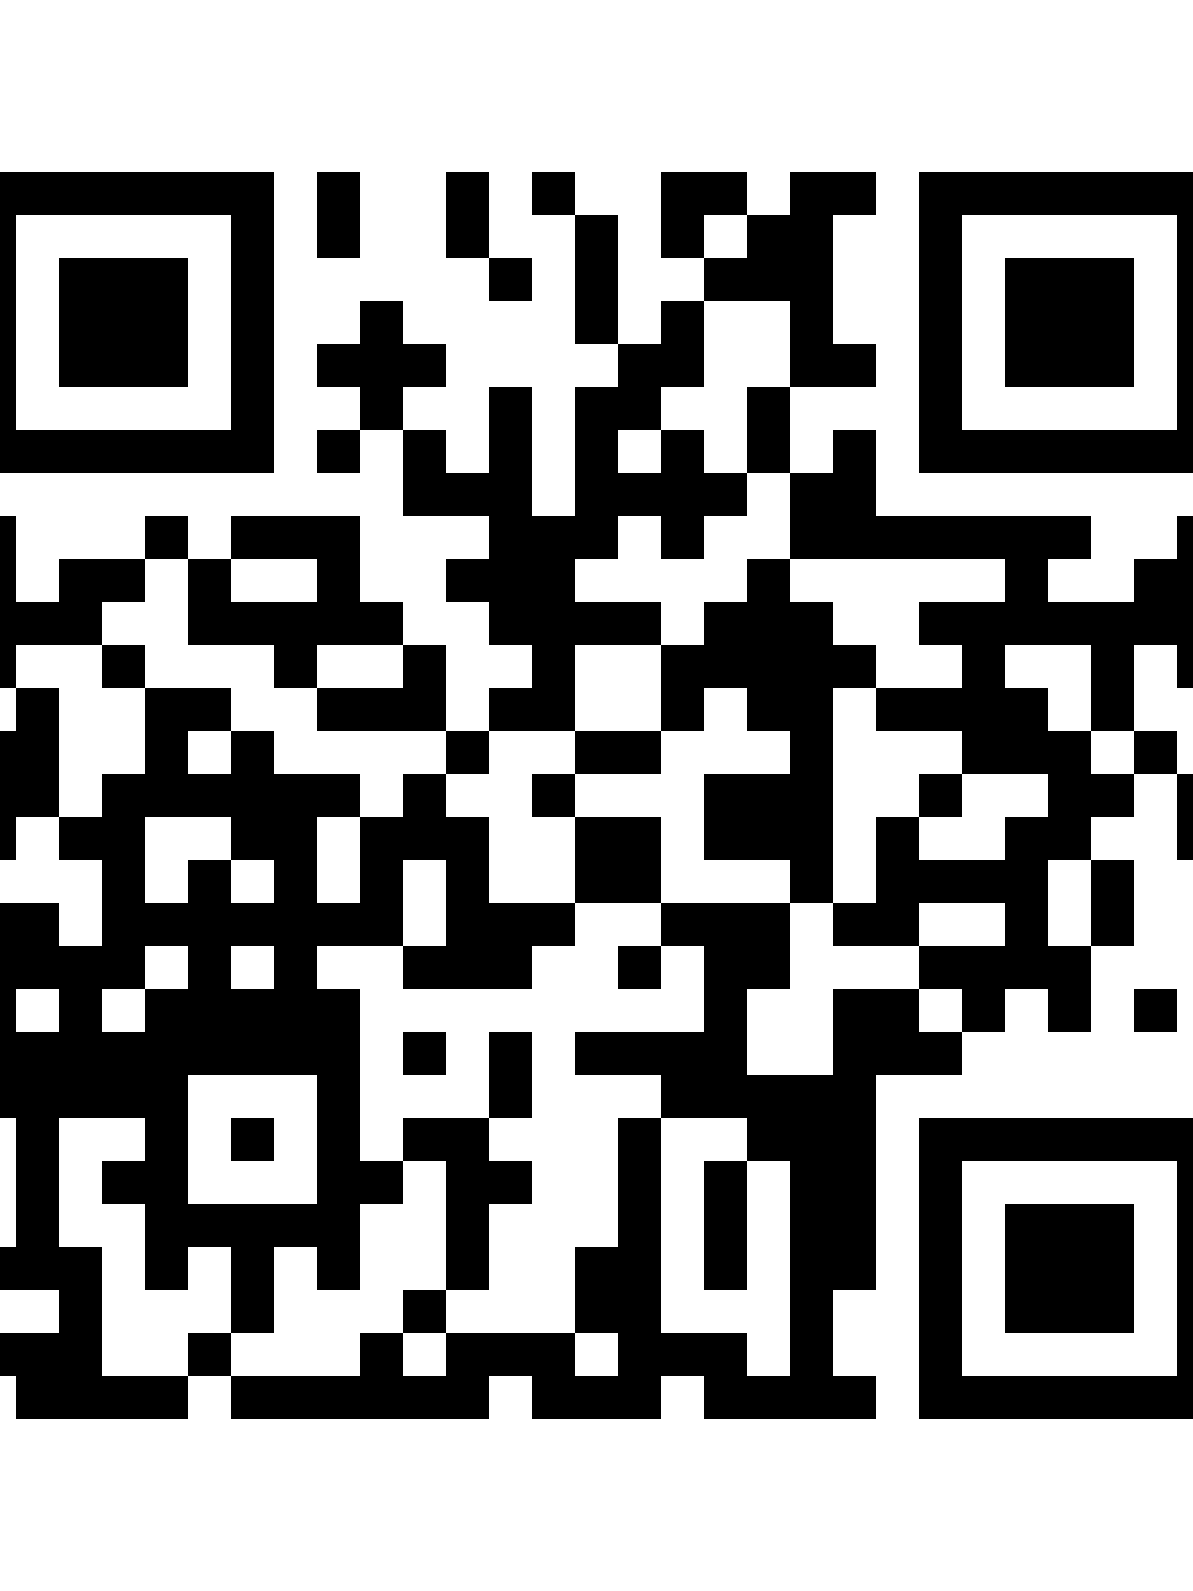
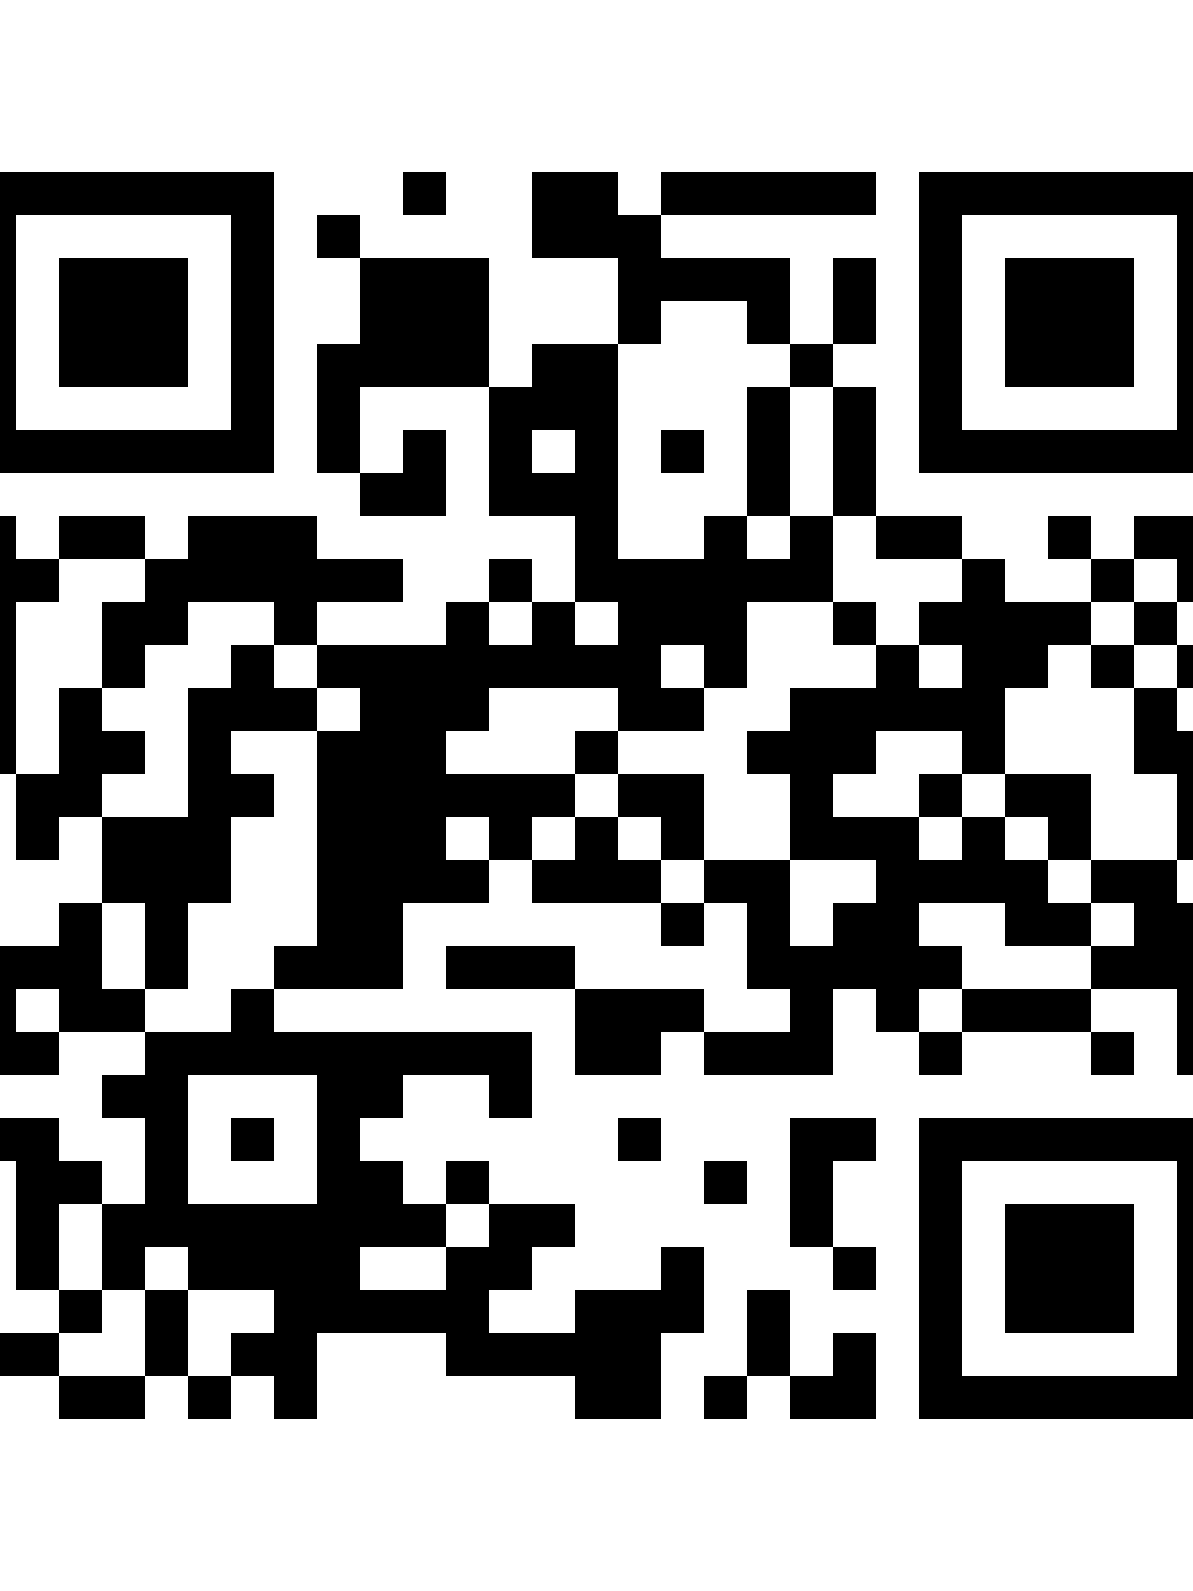
Move to experiencia.nomadhub.ar: new QR and AR target, Vercel ignore list
For this URL the printed QR and the landing page's QR are identical, so one
target replaces the two.

Changed region(s): [[0.0, 0.0924, 0.7754, 0.8931], [0.8064, 0.308, 1.0, 0.6776]]

diff --git a/app.js b/app.js
@@ -35,12 +35,11 @@ const LOCK_AFTER_UPDATES = 45  // accepted QR poses before locking (~1.5 s)
 const CFG = {...CafeConfig.DEFAULTS}
 const cfgReady = CafeConfig.load().then(c => Object.assign(CFG, c))
 
-// Two pictures of the same QR (same URL): the printed one (Python qrcode) and
-// the one 8th Wall's desktop landing page draws (JS qrcode). They pick
-// different mask patterns, 298 of 841 modules apart, so to the image tracker
-// they are different images. qr-cafear-landing.png was generated with
-// qrcode@1.5.4, level M, and checked module-for-module against the page.
-const TARGET_NAMES = ['qr-cafear', 'qr-cafear-landing']
+// One target covers both the printed QR (Python qrcode) and the one 8th Wall's
+// desktop landing page draws (JS qrcode@1.5.4, level M): for this URL both
+// libraries pick the same mask, 0 of 841 modules apart. A longer URL can make
+// them differ; then each needs its own target.
+const TARGET_NAMES = ['qr-cafear']
 const SMOOTHING = 0.25
 
 // Always the main (1x) rear camera. 8th Wall asks for facingMode 'environment'

diff --git a/index.html b/index.html
@@ -10,7 +10,7 @@
   <!-- 8th Wall's desktop landing page draws its QR from this URL (otherwise
        from the address bar, so ?debug etc. would give a QR that isn't the AR
        target). It must stay identical to the URL in qr-cafear.png. -->
-  <link rel="canonical" href="https://jquiroga-ai.github.io/cafear-test/">
+  <link rel="canonical" href="https://experiencia.nomadhub.ar/">
   <script crossorigin="anonymous" src="./external/scripts/8frame-1.5.0.min.js"></script>
 
   <script src="https://cdn.jsdelivr.net/npm/@8thwall/engine-binary@1/dist/xr.js" async crossorigin="anonymous" data-preload-chunks="slam"></script>
